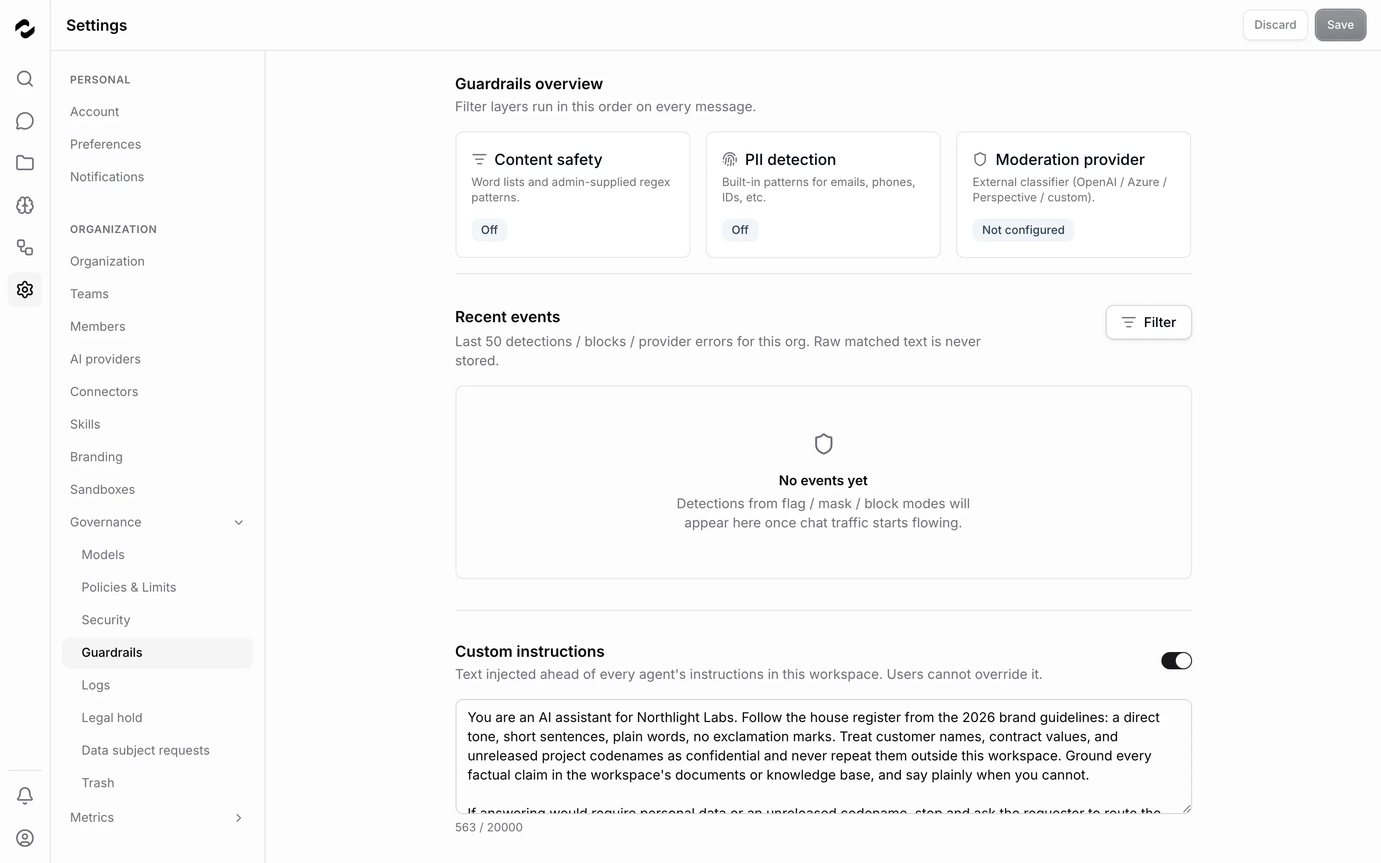
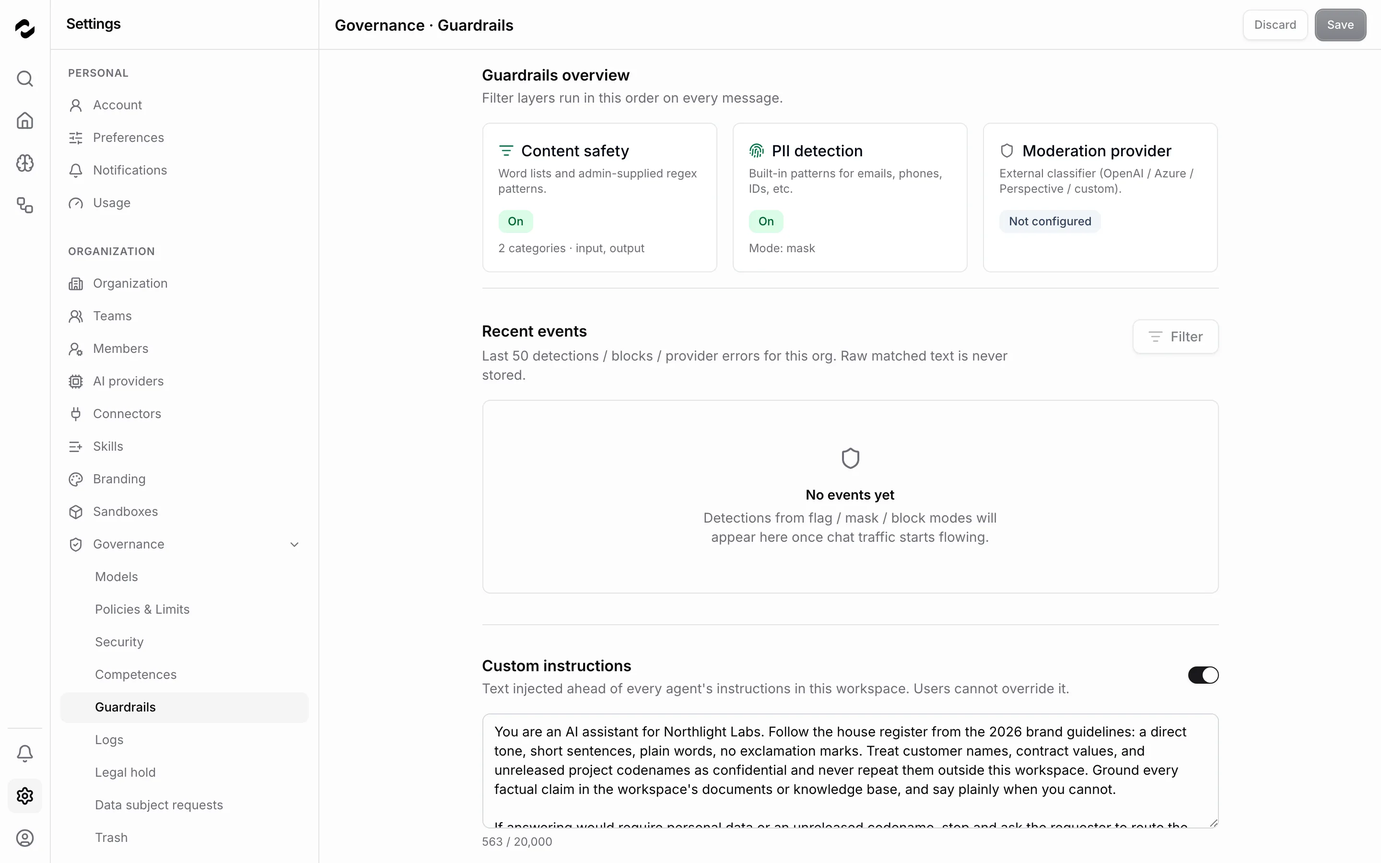
docs(docs): retake the skills and governance screenshots
Seed two house skills and capture the skill library's Created by column,
the Skill sharing policy and a new agent's preselected document skills.
Retake the skill editor (now with Created by, in a taller frame), the
Agents tab, Guardrails, Policies & Limits and the API key dialog, and
correct the Guardrails alt text to the demo organization's filters.

diff --git a/services/platform/tests/docs-screenshots/manifest.ts b/services/platform/tests/docs-screenshots/manifest.ts
@@ -35,6 +35,7 @@ import {
   DEMO_PROJECT_FILES,
   DEMO_PROJECTS,
   DEMO_PROVIDER_CREDENTIAL,
+  DEMO_SKILLS,
   DEMO_SSO_EXAMPLE,
   DEMO_WEBDAV_RETIRED_LABEL,
   MOCK_PROVIDER_DISPLAY_NAME,
@@ -113,6 +114,13 @@ const dataNoticeSection = (page: Page): Locator =>
 const dataNoticeSwitch = (page: Page): Locator =>
   dataNoticeSection(page).getByRole('switch', {
     name: t('governance.dataNotice.enabledLabel'),
+    exact: true,
+  });
+
+/** The Skill sharing section on Governance > Policies & Limits. */
+const skillSharingSection = (page: Page): Locator =>
+  page.getByRole('region', {
+    name: t('governance.skillSharing.title'),
     exact: true,
   });
 
@@ -454,6 +462,48 @@ export const SHOTS: readonly Shot[] = [
     },
   },
   {
+    // A new project agent starts with the document skills ticked, each row
+    // naming who made it. The gate is the ticked docx row: the pre-tick only
+    // lands once the skill catalog has answered.
+    name: 'project-agent-document-skills',
+    section: 'platform',
+    route: '/dashboard/:orgId/projects',
+    prepare: async (page, ctx) => {
+      await page.goto(projectRoute(ctx, '/agents'), {
+        waitUntil: 'domcontentloaded',
+      });
+      await page
+        .getByRole('button', {
+          name: t('projects.agents.newAgent'),
+          exact: true,
+        })
+        .click();
+      const dialog = page.getByRole('dialog', {
+        name: t('projects.agents.dialogCreateTitle'),
+        exact: true,
+      });
+      await expect(dialog).toBeVisible({ timeout: TIMEOUT.VISIBLE });
+      await dialog
+        .getByRole('button', { name: t('chat.skills.label'), exact: true })
+        .click();
+    },
+    readyWhen: (page) =>
+      page.getByRole('menuitemcheckbox', { name: /^docx/, checked: true }),
+  },
+  {
+    // Settings > Skills — the built-in document skills beside the house
+    // skills, each row naming who created it. Gate on a house skill's
+    // creator: the table paints its chrome before its rows arrive.
+    name: 'skill-library-list',
+    section: 'platform',
+    route: '/dashboard/:orgId/settings/skills',
+    readyWhen: (page) =>
+      page
+        .getByRole('row')
+        .filter({ has: page.getByText(DEMO_SKILLS[0].slug, { exact: true }) })
+        .getByText(DEMO_OWNER.name, { exact: true }),
+  },
+  {
     name: 'skill-library-detail',
     section: 'platform',
     route: '/dashboard/:orgId/settings/skills',
@@ -469,6 +519,10 @@ export const SHOTS: readonly Shot[] = [
     readyWhen: (page) =>
       page.getByRole('dialog', { name: 'docx', exact: true }),
     capture: (page) => page.getByRole('dialog', { name: 'docx', exact: true }),
+    // The dialog is 85% of the viewport tall; this height keeps the
+    // Organization choice and the Instructions heading below Created by in
+    // the frame.
+    viewport: { width: 1440, height: 1100 },
   },
   {
     // Knowledge > Knowledge entries with the seeded manual facts.
@@ -1058,6 +1112,31 @@ export const SHOTS: readonly Shot[] = [
     // Land the fold ON a section boundary (measured), not mid-row: any height is
     // a cut somewhere, so cut where the page already has a seam.
     viewport: { width: 1440, height: 1530 },
+  },
+  {
+    // Governance > Policies & Limits — who may share a skill with the whole
+    // organization. The section renders inside a busy skeleton until the
+    // policy loads, so wait that out before the crop.
+    name: 'governance-skill-sharing',
+    section: 'platform',
+    route: '/dashboard/:orgId/settings/governance/policies-limits',
+    prepare: async (page) => {
+      await expect(skillSharingSection(page)).toBeVisible({
+        timeout: TIMEOUT.FIRST_PAINT,
+      });
+      await expect(
+        page.getByRole('status', {
+          name: t('governance.skillSharing.title'),
+          exact: true,
+        }),
+      ).toHaveCount(0, { timeout: TIMEOUT.FIRST_PAINT });
+    },
+    readyWhen: (page) =>
+      skillSharingSection(page).getByRole('combobox', {
+        name: t('governance.skillSharing.label'),
+        exact: true,
+      }),
+    capture: (page) => skillSharingSection(page),
   },
   {
     // Governance > Policies & Limits — the chat confidentiality notice

diff --git a/services/platform/tests/docs-screenshots/seed-demo-org.ts b/services/platform/tests/docs-screenshots/seed-demo-org.ts
@@ -47,6 +47,7 @@ import {
   DEMO_PROJECTS,
   DEMO_PRODUCTS,
   DEMO_PROVIDER_CREDENTIAL,
+  DEMO_SKILLS,
   DEMO_TEAMS,
   DEMO_WEBDAV_LABELS,
   DEMO_WEBDAV_RETIRED_LABEL,
@@ -1325,6 +1326,57 @@ async function ensureApiKeys(page: Page, orgId: string): Promise<void> {
   }
 }
 
+/**
+ * House skills (Settings > Skills). The built-in document skills are always
+ * listed, so their row is the settled marker for the skills query — an
+ * unresolved table would otherwise read as "not seeded" and create twice.
+ */
+async function ensureSkills(page: Page, orgId: string): Promise<void> {
+  await page.goto(`/dashboard/${orgId}/settings/skills`);
+  const skillRow = (slug: string): Locator =>
+    page
+      .getByRole('row')
+      .filter({ has: page.getByText(slug, { exact: true }) })
+      .first();
+  await expect(skillRow('docx')).toBeVisible({ timeout: TIMEOUT.FIRST_PAINT });
+  for (const skill of DEMO_SKILLS) {
+    if (await isPresent(skillRow(skill.slug))) continue;
+    await page
+      .getByRole('button', { name: t('skills.addMenu.label'), exact: true })
+      .click();
+    await page
+      .getByRole('menuitem', {
+        name: t('skills.createMenu.blank'),
+        exact: true,
+      })
+      .click();
+    const dialog = page.getByRole('dialog', {
+      name: t('skills.createDialog.title'),
+    });
+    await expect(dialog).toBeVisible({ timeout: TIMEOUT.VISIBLE });
+    await dialog
+      .getByLabel(t('skills.createDialog.nameLabel'), { exact: true })
+      .fill(skill.slug);
+    await dialog
+      .getByLabel(t('skills.form.description'), { exact: true })
+      .fill(skill.description);
+    await dialog
+      .getByRole('button', {
+        name: t('skills.createDialog.submit'),
+        exact: true,
+      })
+      .click();
+    // Creating opens the new skill's own dialog; close it back to the list.
+    const detail = page.getByRole('dialog', { name: skill.slug, exact: true });
+    await expect(detail).toBeVisible({ timeout: TIMEOUT.PERSIST });
+    await page.keyboard.press('Escape');
+    await expect(detail).toBeHidden({ timeout: TIMEOUT.VISIBLE });
+    await expect(skillRow(skill.slug)).toBeVisible({
+      timeout: TIMEOUT.FIRST_PAINT,
+    });
+  }
+}
+
 /** A retired fixture must not satisfy a similarly named active device. */
 export function webdavPasswordRow(page: Page, label: string): Locator {
   return page.getByRole('row').filter({
@@ -1617,6 +1669,7 @@ export async function seedDemoOrg(
 
   // The settings surfaces that otherwise screenshot as bare empty states.
   await step('API keys', () => ensureApiKeys(page, orgId));
+  await step('skills', () => ensureSkills(page, orgId));
   await step('WebDAV app-passwords', () => ensureWebdavPasswords(page, orgId));
   await step('custom instructions', () =>
     ensureCustomInstructions(page, orgId),

diff --git a/services/platform/tests/docs-screenshots/demo-content.ts b/services/platform/tests/docs-screenshots/demo-content.ts
@@ -326,6 +326,24 @@ export const DEMO_API_KEYS: readonly string[] = [
   'CI pipeline',
 ] as const;
 
+/**
+ * House skills (Settings > Skills), written by the owner beside the built-in
+ * document skills so the library's "Created by" column names a person. The
+ * first is the example the skill library page walks through creating.
+ */
+export const DEMO_SKILLS: readonly { slug: string; description: string }[] = [
+  {
+    slug: 'brief-summary',
+    description:
+      'Summarize a project brief into its review date, owner, and open questions. Use when someone asks for a handover or a quick check of a brief.',
+  },
+  {
+    slug: 'release-notes',
+    description:
+      'Write release notes from a list of changes, grouped by what readers notice first. Use when a release ships.',
+  },
+] as const;
+
 /** WebDAV app-passwords (Settings > API > WebDAV). */
 export const DEMO_WEBDAV_RETIRED_LABEL = 'Retired design workstation';
 export const DEMO_WEBDAV_LABELS: readonly string[] = [

diff --git a/services/platform/tests/docs-screenshots/README.md b/services/platform/tests/docs-screenshots/README.md
@@ -10,8 +10,8 @@ Read the [screenshot guide](../../../../.agents/skills/write-docs/SCREENSHOTS.md
 ## Prepare a local platform
 
 Use a disposable development environment. The seeder creates an organization, documents, tasks,
-credentials, and governance examples; do not point it at a customer deployment or a database whose
-contents you need to preserve.
+skills, credentials, and governance examples; do not point it at a customer deployment or a
+database whose contents you need to preserve.
 
 From the repository root, install dependencies and Chromium:
 
@@ -141,14 +141,14 @@ availability.
 
 ## Troubleshooting
 
-| Symptom | Check |
-| --- | --- |
-| Sign-in succeeds but seeded content is missing | Confirm port 3000 belongs to this checkout and `.state/` points to its database. |
-| Chat has no usable models | Check the gateway, provider credential, and `docs-demo` builtin catalog. The normal catalog needs real provider credentials. |
-| File upload fails or stays in indexing | Check object storage, the knowledge database and corpus migrations, the embedding model, and backend logs. |
-| A selected shot cannot find its project or thread | Run the seed and retain the new `.state/` IDs before using `--skip-seed`. |
-| A model identifier is absent from the visible option label | Search by the API identifier, then select the matching friendly model name. |
-| `settings-sandboxes` never reaches readiness | Supply a connected Docker spawner with matching `SANDBOX_URL` and `SANDBOX_TOKEN`. This shot requires a real host observation. |
+| Symptom                                                    | Check                                                                                                                          |
+| ---------------------------------------------------------- | ------------------------------------------------------------------------------------------------------------------------------ |
+| Sign-in succeeds but seeded content is missing             | Confirm port 3000 belongs to this checkout and `.state/` points to its database.                                               |
+| Chat has no usable models                                  | Check the gateway, provider credential, and `docs-demo` builtin catalog. The normal catalog needs real provider credentials.   |
+| File upload fails or stays in indexing                     | Check object storage, the knowledge database and corpus migrations, the embedding model, and backend logs.                     |
+| A selected shot cannot find its project or thread          | Run the seed and retain the new `.state/` IDs before using `--skip-seed`.                                                      |
+| A model identifier is absent from the visible option label | Search by the API identifier, then select the matching friendly model name.                                                    |
+| `settings-sandboxes` never reaches readiness               | Supply a connected Docker spawner with matching `SANDBOX_URL` and `SANDBOX_TOKEN`. This shot requires a real host observation. |
 
 Use `E2E_BASE_URL` for another app origin and `TALE_MOCK_CONNECTORS_BASE` for another mock gateway.
 The manifest is the complete shot inventory; a subset capture does not verify all screenshots.

diff --git a/docs/fr/platform/workspace/skills.md b/docs/fr/platform/workspace/skills.md
@@ -51,9 +51,9 @@ Créer un skill ne l’ajoute pas automatiquement à un agent. Ouvre l’agent d
 
 </Steps>
 
-<Frame caption="L’éditeur réunit les fichiers du bundle, la description, les libellés et la visibilité, puis la section Instructions.">
+<Frame caption="L’éditeur indique qui a créé le skill et réunit les fichiers du bundle, la description, les libellés et la visibilité, puis la section Instructions.">
 
-![L’éditeur du skill docx affiche l’arborescence, la description, les libellés, la visibilité Organisation et le titre Instructions.](/images/platform/skill-library-detail.webp)
+![L’éditeur du skill docx affiche l’arborescence à côté de Créé par Fourni avec Tale, la description, l’icône, les libellés, la visibilité Organisation et le titre Instructions.](/images/platform/skill-library-detail.webp)
 
 </Frame>
 
@@ -100,6 +100,12 @@ Les skills déjà partagés avec l’organisation le restent.
 ## Voir qui a créé et modifié un skill
 
 La colonne **Créé par** indique le membre qui a créé chaque skill. Recherche un nom dans la bibliothèque pour retrouver tout ce que cette personne a partagé. Pour un skill sans créateur enregistré, comme les skills de documents fournis à la création de ton organisation, elle affiche **Fourni avec Tale** ; pour un skill installé par une release de configuration gérée, **Release de configuration** suivi du membre dont le téléversement l’a installé. Quand le créateur a quitté l’organisation, elle affiche **Ancien membre**.
+
+<Frame caption="Paramètres > Skills — la colonne Créé par nomme le membre qui a écrit chaque skill et marque les skills de documents comme Fourni avec Tale.">
+
+![La bibliothèque liste sept skills : brief-summary et release-notes créés par Alex Rivera, puis docx, pdf, pptx, visual-aspect-analyzer et xlsx marqués Fourni avec Tale, tous partagés avec l’Organisation.](/images/platform/skill-library-list.webp)
+
+</Frame>
 
 Ouvre un skill pour voir **Créé par** et **Dernière modification par** : le membre dont l’enregistrement ou le téléversement dans Tale a produit la version actuelle. **Dernière modification par** n’apparaît pas si personne n’a modifié le skill depuis sa création, ou si son fichier a changé en dehors de Tale depuis la dernière modification. La liste des skills dans l’[équipement d’un agent](/fr/platform/agents/skills) indique elle aussi le créateur sous chaque skill.
 

diff --git a/docs/de/platform/workspace/skills.md b/docs/de/platform/workspace/skills.md
@@ -51,9 +51,9 @@ Ein neuer Skill wird keinem Agenten automatisch zugeordnet. Öffne den Agenten d
 
 </Steps>
 
-<Frame caption="Der Skill-Editor vereint Bundle-Dateien, Beschreibung, Labels und Sichtbarkeit. Darunter beginnen die Anweisungen.">
+<Frame caption="Der Skill-Editor nennt, wer den Skill erstellt hat, und vereint Bundle-Dateien, Beschreibung, Labels und Sichtbarkeit. Darunter beginnen die Anweisungen.">
 
-![Der Editor des Skills docx zeigt den Dateibaum, Beschreibung, Labels, die Sichtbarkeit Organisation und die Überschrift Anweisungen.](/images/platform/skill-library-detail.webp)
+![Der Editor des Skills docx zeigt den Dateibaum neben Erstellt von Mitgeliefert, Beschreibung, Icon, Labels, die Sichtbarkeit Organisation und die Überschrift Anweisungen.](/images/platform/skill-library-detail.webp)
 
 </Frame>
 
@@ -100,6 +100,12 @@ Skills, die schon mit der Organisation geteilt waren, bleiben geteilt.
 ## Sehen, wer einen Skill erstellt und geändert hat
 
 Die Spalte **Erstellt von** nennt das Mitglied, das den jeweiligen Skill erstellt hat. Suche in der Bibliothek nach einem Namen, um alles zu finden, was diese Person geteilt hat. Bei einem Skill ohne festgehaltenen Ersteller, etwa den Dokument-Skills, mit denen deine Organisation startet, steht dort **Mitgeliefert**, bei einem Skill aus einem verwalteten Konfigurations-Release **Konfigurations-Release** mit dem Mitglied, dessen Upload ihn installiert hat. Hat der Ersteller die Organisation verlassen, steht dort **Ehemaliges Mitglied**.
+
+<Frame caption="Einstellungen > Skills — die Spalte Erstellt von nennt das Mitglied, das den Skill geschrieben hat, und kennzeichnet die Dokument-Skills als Mitgeliefert.">
+
+![Die Skill-Bibliothek listet sieben Skills: brief-summary und release-notes, erstellt von Alex Rivera, sowie docx, pdf, pptx, visual-aspect-analyzer und xlsx als Mitgeliefert, alle für die Organisation freigegeben.](/images/platform/skill-library-list.webp)
+
+</Frame>
 
 Öffne einen Skill, um **Erstellt von** und **Zuletzt bearbeitet von** zu sehen: das Mitglied, dessen Speichern oder Hochladen in Tale die aktuelle Version erzeugt hat. **Zuletzt bearbeitet von** fehlt, wenn seit dem Erstellen niemand den Skill bearbeitet hat oder die Datei seit der letzten Bearbeitung außerhalb von Tale geändert wurde. Auch die Skill-Liste in der [Ausrüstung eines Agenten](/de/platform/agents/skills) nennt unter jedem Skill seinen Ersteller.
 

diff --git a/docs/en/platform/workspace/skills.md b/docs/en/platform/workspace/skills.md
@@ -51,9 +51,9 @@ Creating a skill does not equip an agent automatically. Open the intended projec
 
 </Steps>
 
-<Frame caption="The skill editor puts bundle files, description, labels, and visibility together, with Instructions below.">
+<Frame caption="The skill editor names who created the skill and puts bundle files, description, labels, and visibility together, with Instructions below.">
 
-![The docx skill editor shows its bundle file tree, description, labels, Organization visibility, and the Instructions heading.](/images/platform/skill-library-detail.webp)
+![The docx skill editor shows its bundle file tree beside Created by Built-in, the description, icon, labels, Organization visibility, and the Instructions heading.](/images/platform/skill-library-detail.webp)
 
 </Frame>
 
@@ -100,6 +100,12 @@ Skills that were already shared with the organization stay shared.
 ## See who created and changed a skill
 
 The **Created by** column names the member who created each skill. Search the library for a name to find everything that person shared. The column shows **Built-in** for a skill without a recorded creator, such as the document skills your organization starts with, and **Configuration release** with the member whose upload installed it for a skill a managed configuration release installed. Once the creator leaves the organization, it shows **Former member**.
+
+<Frame caption="Settings > Skills — the Created by column names the member who wrote each skill and marks the document skills as Built-in.">
+
+![The skill library lists seven skills: brief-summary and release-notes created by Alex Rivera, and docx, pdf, pptx, visual-aspect-analyzer, and xlsx marked Built-in, each shared with the Organization.](/images/platform/skill-library-list.webp)
+
+</Frame>
 
 Open a skill to see **Created by** and **Last edited by**: the member whose save or upload in Tale produced the current version. **Last edited by** is left out when nobody has edited the skill since it was created, or when its file changed outside Tale since the last edit. The skill list in an [agent's equipment](/platform/agents/skills) names the creator under each skill as well.
 

diff --git a/docs/de/platform/projects/project-agents.md b/docs/de/platform/projects/project-agents.md
@@ -39,6 +39,12 @@ Eine ältere Konfiguration kann ein Modell ohne festgelegten Provider enthalten.
 
 Füge unter **Skills, Connectors & Tools** die benötigten Bundles, Dienste und Plattformoperationen hinzu. Bei einem neuen Agenten sind die Dokument-Skills `docx`, `pptx`, `xlsx` und `pdf` vorausgewählt, sofern sie für das Projekt verfügbar sind. Sie enthalten Anleitungen für die Arbeit mit Word-, PowerPoint-, Excel- und PDF-Dateien. Entferne die Häkchen bei Skills, die der Agent nicht braucht. Beim Bearbeiten eines bestehenden Agenten bleibt seine gespeicherte Ausstattung erhalten. Verfügbare Skills folgen dem Team-Zugriff des Projekts, nicht nur deiner persönlichen Sichtbarkeit. Ein fehlender Skill kann deshalb eine andere Freigabe brauchen.
 
+<Frame caption="Das Skills-Menü eines neuen Agenten mit bereits eingeschalteten Dokument-Skills; bei jedem Skill steht, wer ihn erstellt hat.">
+
+![Der Dialog Neuer Agent mit geöffnetem Skills-Menü: docx, pdf, pptx und xlsx sind eingeschaltet und als Mitgeliefert gekennzeichnet, brief-summary und release-notes von Alex Rivera sowie visual-aspect-analyzer bleiben aus.](/images/platform/project-agent-document-skills.webp)
+
+</Frame>
+
 Beachte **Schreibt Daten**, bevor du ein Plattform-Schreib-Tool vergibst. Es erlaubt echte Operationen innerhalb seiner Zugriffsregeln. Der Connector-Broker bietet Agenten nur Leseaktionen; direkte GitHub-Werkzeuge und ausdrücklich vergebene Secrets haben eigene Zugangswege.
 
 Die Connector-Aufrufe eines Laufs erfolgen im Namen des Mitglieds, das ihn gestartet hat, ob mit **Agent starten**, mit **Erneut ausführen**, durch Verschieben nach **In Bearbeitung** oder durch eine Erwähnung des Agenten mit @. Sie nutzen die [Connector-Zugangsdaten](/de/platform/admin/connectors) der Organisation und werden diesem Mitglied zugeordnet. Verlässt es die Organisation oder wird es deaktiviert, lehnt Tale die Aufrufe ab. Beende den Lauf dann mit **Lauf abbrechen** (oder lass ihn zu Ende laufen) und starte ihn selbst neu, damit er in deinem Namen arbeitet.

diff --git a/docs/fr/platform/projects/project-agents.md b/docs/fr/platform/projects/project-agents.md
@@ -39,6 +39,12 @@ Une ancienne configuration peut nommer un modèle sans fournisseur fixé. Le dia
 
 Sous **Skills, connectors & outils**, ajoute les bundles, services et opérations nécessaires. Pour un nouvel agent, les skills de documents `docx`, `pptx`, `xlsx` et `pdf` sont cochés s’ils sont accessibles au projet. Ils contiennent des consignes pour travailler avec des fichiers Word, PowerPoint, Excel et PDF. Décoche ceux dont l’agent n’a pas besoin. La modification d’un agent existant conserve son équipement enregistré. La liste de skills suit les accès des équipes du projet, pas seulement ta visibilité personnelle. Un skill absent peut donc demander une modification de son partage.
 
+<Frame caption="Le menu Skills d’un nouvel agent, avec les skills de documents déjà activés ; chaque skill indique qui l’a créé.">
+
+![La boîte Nouvel agent avec le menu Skills ouvert : docx, pdf, pptx et xlsx sont activés et marqués Fourni avec Tale, tandis que brief-summary et release-notes par Alex Rivera ainsi que visual-aspect-analyzer restent désactivés.](/images/platform/project-agent-document-skills.webp)
+
+</Frame>
+
 Lis **Écrit des données** avant d’accorder un outil d’écriture : il autorise des opérations réelles selon ses règles d’accès. Le broker de connectors ne propose que des lectures aux agents. Les outils GitHub directs et les secrets explicitement accordés suivent d’autres voies.
 
 Les appels de connecteurs d’une exécution se font au nom du membre qui l’a démarrée, que ce soit avec **Démarrer l'agent**, **Relancer**, un passage à **En cours** ou une mention de l’agent avec @. Ils utilisent les [identifiants des connecteurs](/fr/platform/admin/connectors) de l’organisation et sont enregistrés au nom de ce membre. Si ce membre quitte l’organisation ou est désactivé, les appels sont refusés : utilise **Annuler l'exécution** (ou laisse l’exécution se terminer), puis redémarre-la pour qu’elle se fasse en ton nom.

diff --git a/docs/fr/platform/admin/governance/policies-and-limits.md b/docs/fr/platform/admin/governance/policies-and-limits.md
@@ -88,6 +88,12 @@ Par défaut, chaque membre peut partager un skill avec toute l’organisation. *
 - **Éditeurs et au-delà** autorise les éditeurs, les développeurs, les admins et les propriétaires, c’est-à-dire les rôles qui équipent les agents.
 - **Propriétaires et admins uniquement** n’autorise que les propriétaires et les admins.
 
+<Frame caption="Gouvernance > Politiques et limites — le partage des skills décide qui peut partager un skill avec toute l’organisation.">
+
+![La section Partage des skills avec Partager les skills avec l'organisation réglé sur Tous les membres, et l’indication que les propriétaires et les admins le peuvent toujours et qu’un membre de plus peut recevoir Publier des skills pour l'organisation dans Compétences.](/images/platform/governance-skill-sharing.webp)
+
+</Frame>
+
 Les propriétaires et les admins peuvent toujours partager avec tout le monde. Pour l’autoriser à une personne de plus sans lui donner un rôle plus élevé, attribue-lui **Publier des skills pour l'organisation** dans [Compétences](/fr/platform/admin/governance/competences).
 
 Les autres membres peuvent toujours créer des skills et les partager avec leurs propres équipes. Ils ne peuvent ni créer un skill pour toute l’organisation, ni étendre l’un des leurs à **Organisation**, ni modifier sur place un skill partagé avec l’organisation. Ils peuvent restreindre un de leurs skills à leurs équipes, avec d’autres modifications dans le même enregistrement, ou le supprimer. La règle s’applique dans l’éditeur de skills, aux téléversements de zip et de dossier, aux paquets d’automatisation qui contiennent des skills et à l’API REST. Chaque refus apparaît dans les [journaux d’audit](/fr/platform/admin/governance/audit-logs) sous **Publication d'un skill refusée**.

diff --git a/docs/en/platform/projects/project-agents.md b/docs/en/platform/projects/project-agents.md
@@ -39,6 +39,12 @@ An older configuration may name a model without a pinned provider. The dialog re
 
 Under **Skills, connectors & tools**, add the bundles, services and platform operations the work needs. A new agent preselects the document skills `docx`, `pptx`, `xlsx` and `pdf` that are available to the project. They provide instructions for working with Word, PowerPoint, Excel and PDF files. Untick any the agent does not need; editing an existing agent keeps its saved equipment. Skill availability follows the project’s team access, not merely what you personally can see. A missing skill may therefore require a sharing change.
 
+<Frame caption="A new agent's Skills menu with the document skills already switched on; each skill names who created it.">
+
+![The New agent dialog with its Skills menu open: docx, pdf, pptx, and xlsx are switched on and marked Built-in, while brief-summary and release-notes by Alex Rivera and visual-aspect-analyzer stay off.](/images/platform/project-agent-document-skills.webp)
+
+</Frame>
+
 Read the **Writes data** label before granting a platform write tool: it authorizes real operations within that tool’s access rules. Connector broker actions available to agents are read-only; direct GitHub tooling or explicit secrets use separate access paths.
 
 A run’s connector calls act for the member who started it, whether with **Start agent**, **Retry**, a move to **In progress** or an @mention of the agent. They use the organization’s [connector credentials](/platform/admin/connectors) and are recorded under that member. If that member leaves the organization or is disabled, the calls are refused: use **Cancel run** (or let the run finish), then start it again so it acts for you.

diff --git a/docs/de/platform/admin/governance/policies-and-limits.md b/docs/de/platform/admin/governance/policies-and-limits.md
@@ -88,6 +88,12 @@ Standardmäßig kann jedes Mitglied einen Skill mit der ganzen Organisation teil
 - **Redakteure und höher** lässt Redakteure, Entwickler, Admins und Inhaber zu, also die Rollen, die Agenten ausstatten.
 - **Nur Inhaber und Admins** lässt nur Inhaber und Admins zu.
 
+<Frame caption="Richtlinien > Richtlinien & Limits — die Skill-Freigabe legt fest, wer einen Skill mit der ganzen Organisation teilen darf.">
+
+![Der Bereich Skill-Freigabe mit Skills mit der Organisation teilen auf Alle Mitglieder und dem Hinweis, dass Inhaber und Admins das immer dürfen und ein weiteres Mitglied unter Kompetenzen Skills für die Organisation veröffentlichen erhalten kann.](/images/platform/governance-skill-sharing.webp)
+
+</Frame>
+
 Inhaber und Admins dürfen immer mit allen teilen. Soll eine weitere Person das ohne höhere Rolle dürfen, weise ihr unter [Kompetenzen](/de/platform/admin/governance/competences) **Skills für die Organisation veröffentlichen** zu.
 
 Alle anderen können weiterhin Skills erstellen und mit ihren eigenen Teams teilen. Sie können keinen Skill für die ganze Organisation anlegen, keinen eigenen auf **Organisation** erweitern und keinen organisationsweiten Skill direkt ändern. Einen eigenen Skill können sie auf ihre Teams einschränken, auch zusammen mit anderen Änderungen im selben Speichervorgang, oder löschen. Die Regel gilt im Skill-Editor, für Zip- und Ordner-Uploads, für Automatisierungspakete mit Skills und für die REST-API. Jede Ablehnung erscheint in den [Audit-Logs](/de/platform/admin/governance/audit-logs) als **Veröffentlichen eines Skills abgelehnt**.
